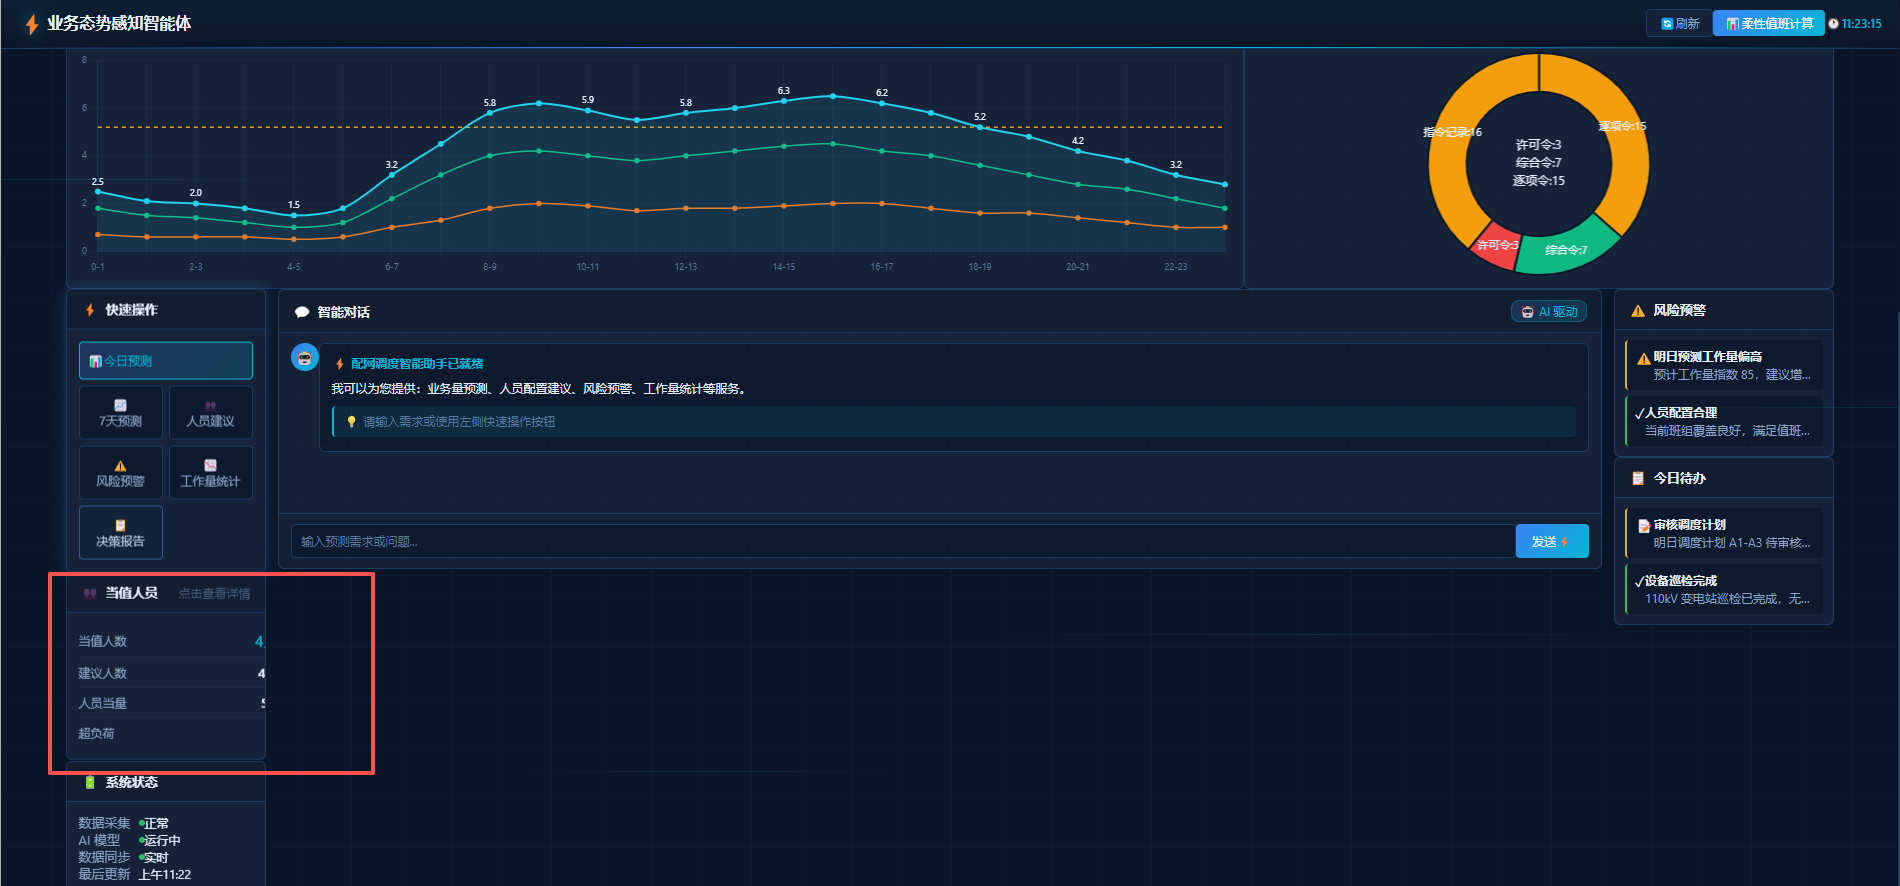
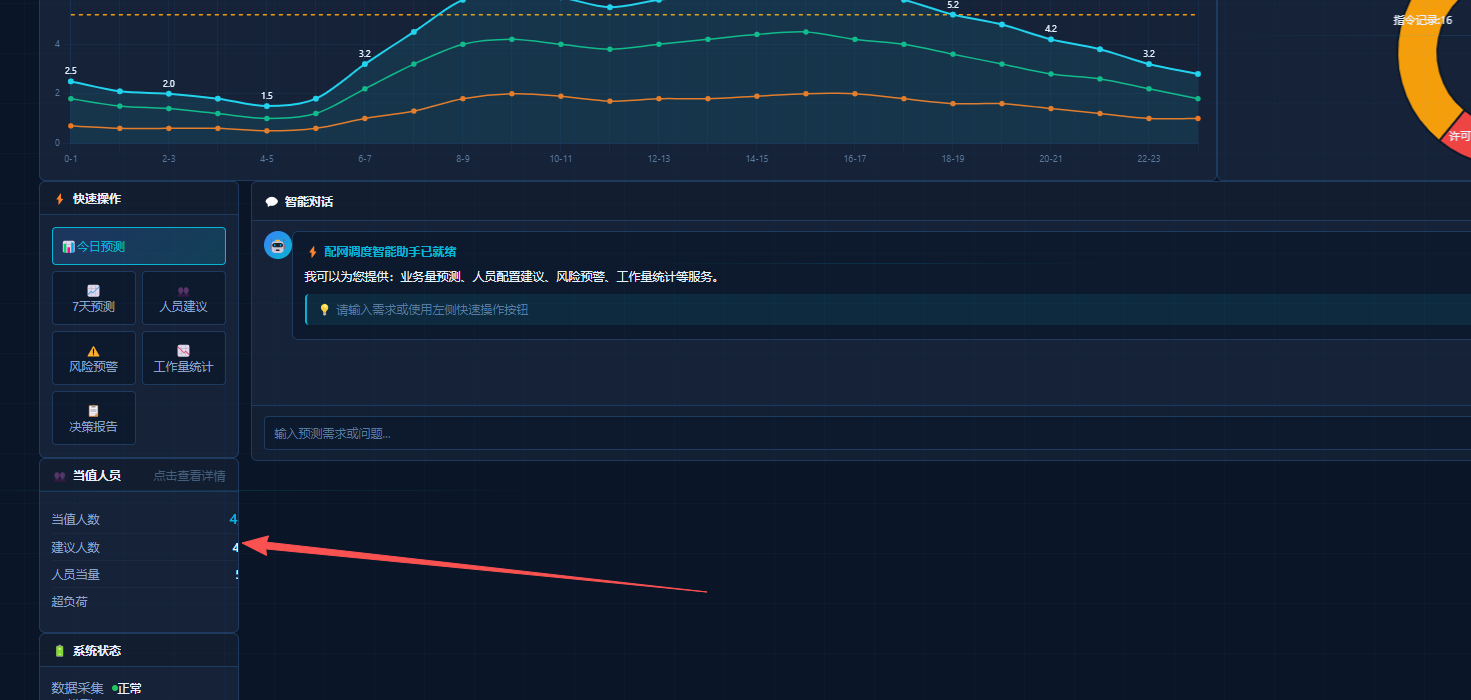
fix: 重新优化当值人员信息卡片布局，增大字体和间距确保清晰显示

diff --git a/frontend/css/style.css b/frontend/css/style.css
@@ -476,18 +476,18 @@ body {
 .card-header {
     display: flex;
     align-items: center;
-    padding: 8px 12px;
+    padding: 10px 14px;
     border-bottom: 1px solid var(--border-color);
     background: rgba(0, 0, 0, 0.15);
 }
 
 .card-header .icon {
-    font-size: 12px;
-    margin-right: 5px;
+    font-size: 14px;
+    margin-right: 6px;
 }
 
 .card-header .title {
-    font-size: 12px;
+    font-size: 13px;
     font-weight: 600;
     color: var(--text-primary);
     flex: 1;
@@ -567,8 +567,8 @@ body {
 }
 
 .control-card .card-body {
-    padding: 12px;
-    min-height: 140px;
+    padding: 16px;
+    min-height: 160px;
 }
 
 /* 快速操作按钮 */
@@ -611,16 +611,16 @@ body {
 .staff-info {
     display: flex;
     flex-direction: column;
-    gap: 6px;
+    gap: 10px;
 }
 
 .staff-row {
     display: flex;
     justify-content: space-between;
     align-items: center;
-    padding: 5px 0;
+    padding: 8px 0;
     border-bottom: 1px solid rgba(255, 255, 255, 0.03);
-    line-height: 1.4;
+    line-height: 1.5;
 }
 
 .staff-row:last-child {
@@ -628,20 +628,20 @@ body {
 }
 
 .staff-label {
-    font-size: 11px;
+    font-size: 13px;
     color: var(--text-secondary);
     flex-shrink: 0;
 }
 
 .staff-value {
-    font-size: 12px;
+    font-size: 15px;
     font-weight: 600;
     color: var(--text-primary);
 }
 
 .staff-value.highlight {
     color: var(--accent-cyan);
-    font-size: 14px;
+    font-size: 17px;
 }
 
 .staff-value.success { color: var(--highlight-green); }